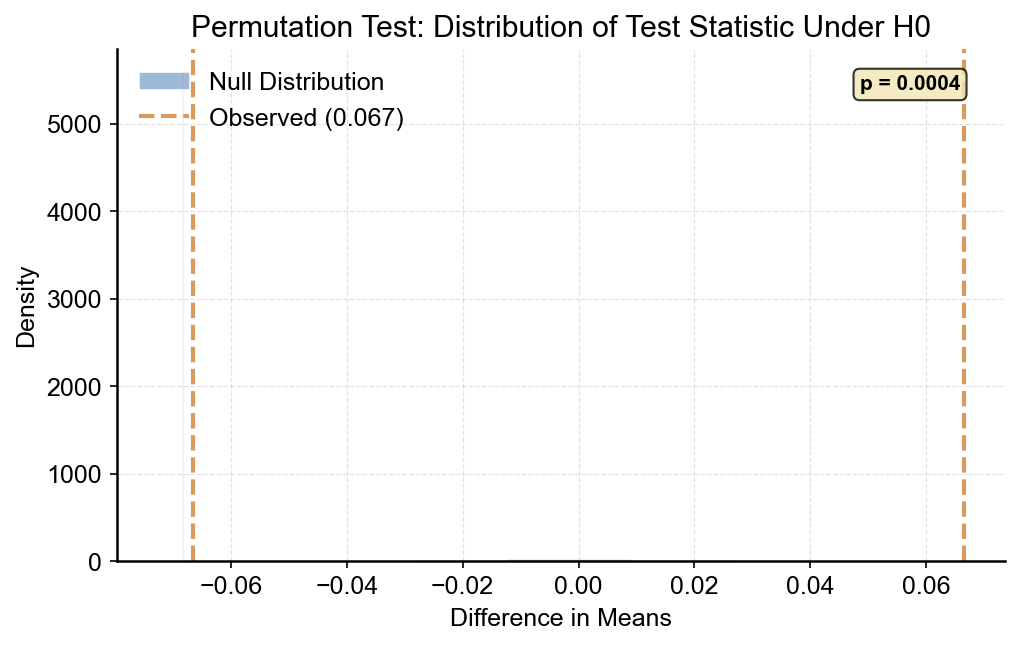
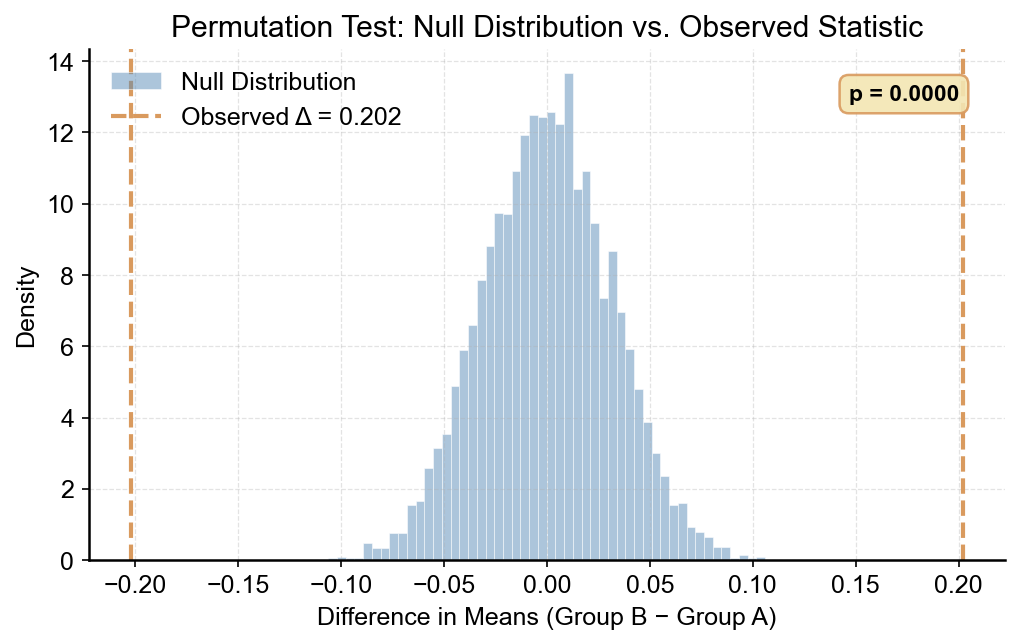
fix: improve permutation test example with larger effect size and cleaner styling

diff --git a/examples/permutation_test_example.py b/examples/permutation_test_example.py
@@ -31,15 +31,15 @@ def apply_paper_style(font_size=12):
 
 def load_data():
     np.random.seed(42)
-    group_a = np.random.normal(0.72, 0.08, 30)
-    group_b = np.random.normal(0.78, 0.07, 30)
+    group_a = np.random.normal(0.62, 0.10, 35)
+    group_b = np.random.normal(0.82, 0.08, 35)
     observed_diff = group_b.mean() - group_a.mean()
     n_permutations = 5000
     combined = np.concatenate([group_a, group_b])
     null_dist = np.zeros(n_permutations)
     for i in range(n_permutations):
         perm = np.random.permutation(combined)
-        null_dist[i] = perm[:30].mean() - perm[30:].mean()
+        null_dist[i] = perm[:35].mean() - perm[35:].mean()
     p_value = (np.abs(null_dist) >= np.abs(observed_diff)).mean()
     return observed_diff, null_dist, p_value
 
@@ -53,25 +53,47 @@ def plot_figure(data):
 
     fig, ax = plt.subplots(figsize=(7, 4.5))
 
-    ax.hist(null_dist, bins=50, density=True, color="#5B8DB8", alpha=0.6,
-            edgecolor="white", linewidth=0.5, label="Null Distribution")
+    # Histogram for null distribution
+    counts, bin_edges, _ = ax.hist(
+        null_dist, bins=50, density=True, color="#5B8DB8", alpha=0.5,
+        edgecolor="white", linewidth=0.5, label="Null Distribution",
+    )
 
+    # Highlight rejection regions (both tails)
+    for i in range(len(counts)):
+        if bin_edges[i] >= observed_diff or bin_edges[i+1] <= -observed_diff:
+            ax.bar(
+                (bin_edges[i] + bin_edges[i+1]) / 2, counts[i],
+                width=bin_edges[i+1] - bin_edges[i],
+                color="#D99A5E", alpha=0.6, edgecolor="white", linewidth=0.5,
+            )
+
+    # Smooth KDE overlay for null distribution
+    try:
+        from scipy.stats import gaussian_kde
+        kde = gaussian_kde(null_dist)
+        x_grid = np.linspace(null_dist.min() - 0.02, null_dist.max() + 0.02, 300)
+        ax.plot(x_grid, kde(x_grid), color="#3E6F95", linewidth=1.5, alpha=0.8)
+    except ImportError:
+        pass
+
+    # Observed statistic line
     ax.axvline(observed_diff, color="#D99A5E", linewidth=2.0, linestyle="--",
-               label=f"Observed ({observed_diff:.3f})")
+               label=f"Observed Δ = {observed_diff:.3f}")
     ax.axvline(-observed_diff, color="#D99A5E", linewidth=2.0, linestyle="--")
 
-    extreme = null_dist[np.abs(null_dist) >= np.abs(observed_diff)]
-    if len(extreme) > 0:
-        ax.hist(extreme, bins=50, density=True, color="#D99A5E", alpha=0.4,
-                edgecolor="white", linewidth=0.5)
+    # Annotation box
+    ax.annotate(
+        f"p = {p_value:.4f}",
+        xy=(0.95, 0.90), xycoords="axes fraction",
+        ha="right", fontsize=11, fontweight="bold",
+        bbox=dict(boxstyle="round,pad=0.4", facecolor="#F3E6B3", edgecolor="#D99A5E",
+                  alpha=0.9, linewidth=1.2),
+    )
 
-    ax.annotate(f"p = {p_value:.4f}", xy=(0.95, 0.92), xycoords="axes fraction",
-               ha="right", fontsize=10, fontweight="bold",
-               bbox=dict(boxstyle="round,pad=0.3", facecolor="#F3E6B3", alpha=0.8))
-
-    ax.set_xlabel("Difference in Means")
+    ax.set_xlabel("Difference in Means (Group B − Group A)")
     ax.set_ylabel("Density")
-    ax.set_title("Permutation Test: Distribution of Test Statistic Under H0")
+    ax.set_title("Permutation Test: Null Distribution vs. Observed Statistic")
     ax.legend(loc="upper left")
     ax.grid(linestyle="--", linewidth=0.6, alpha=0.35)
 